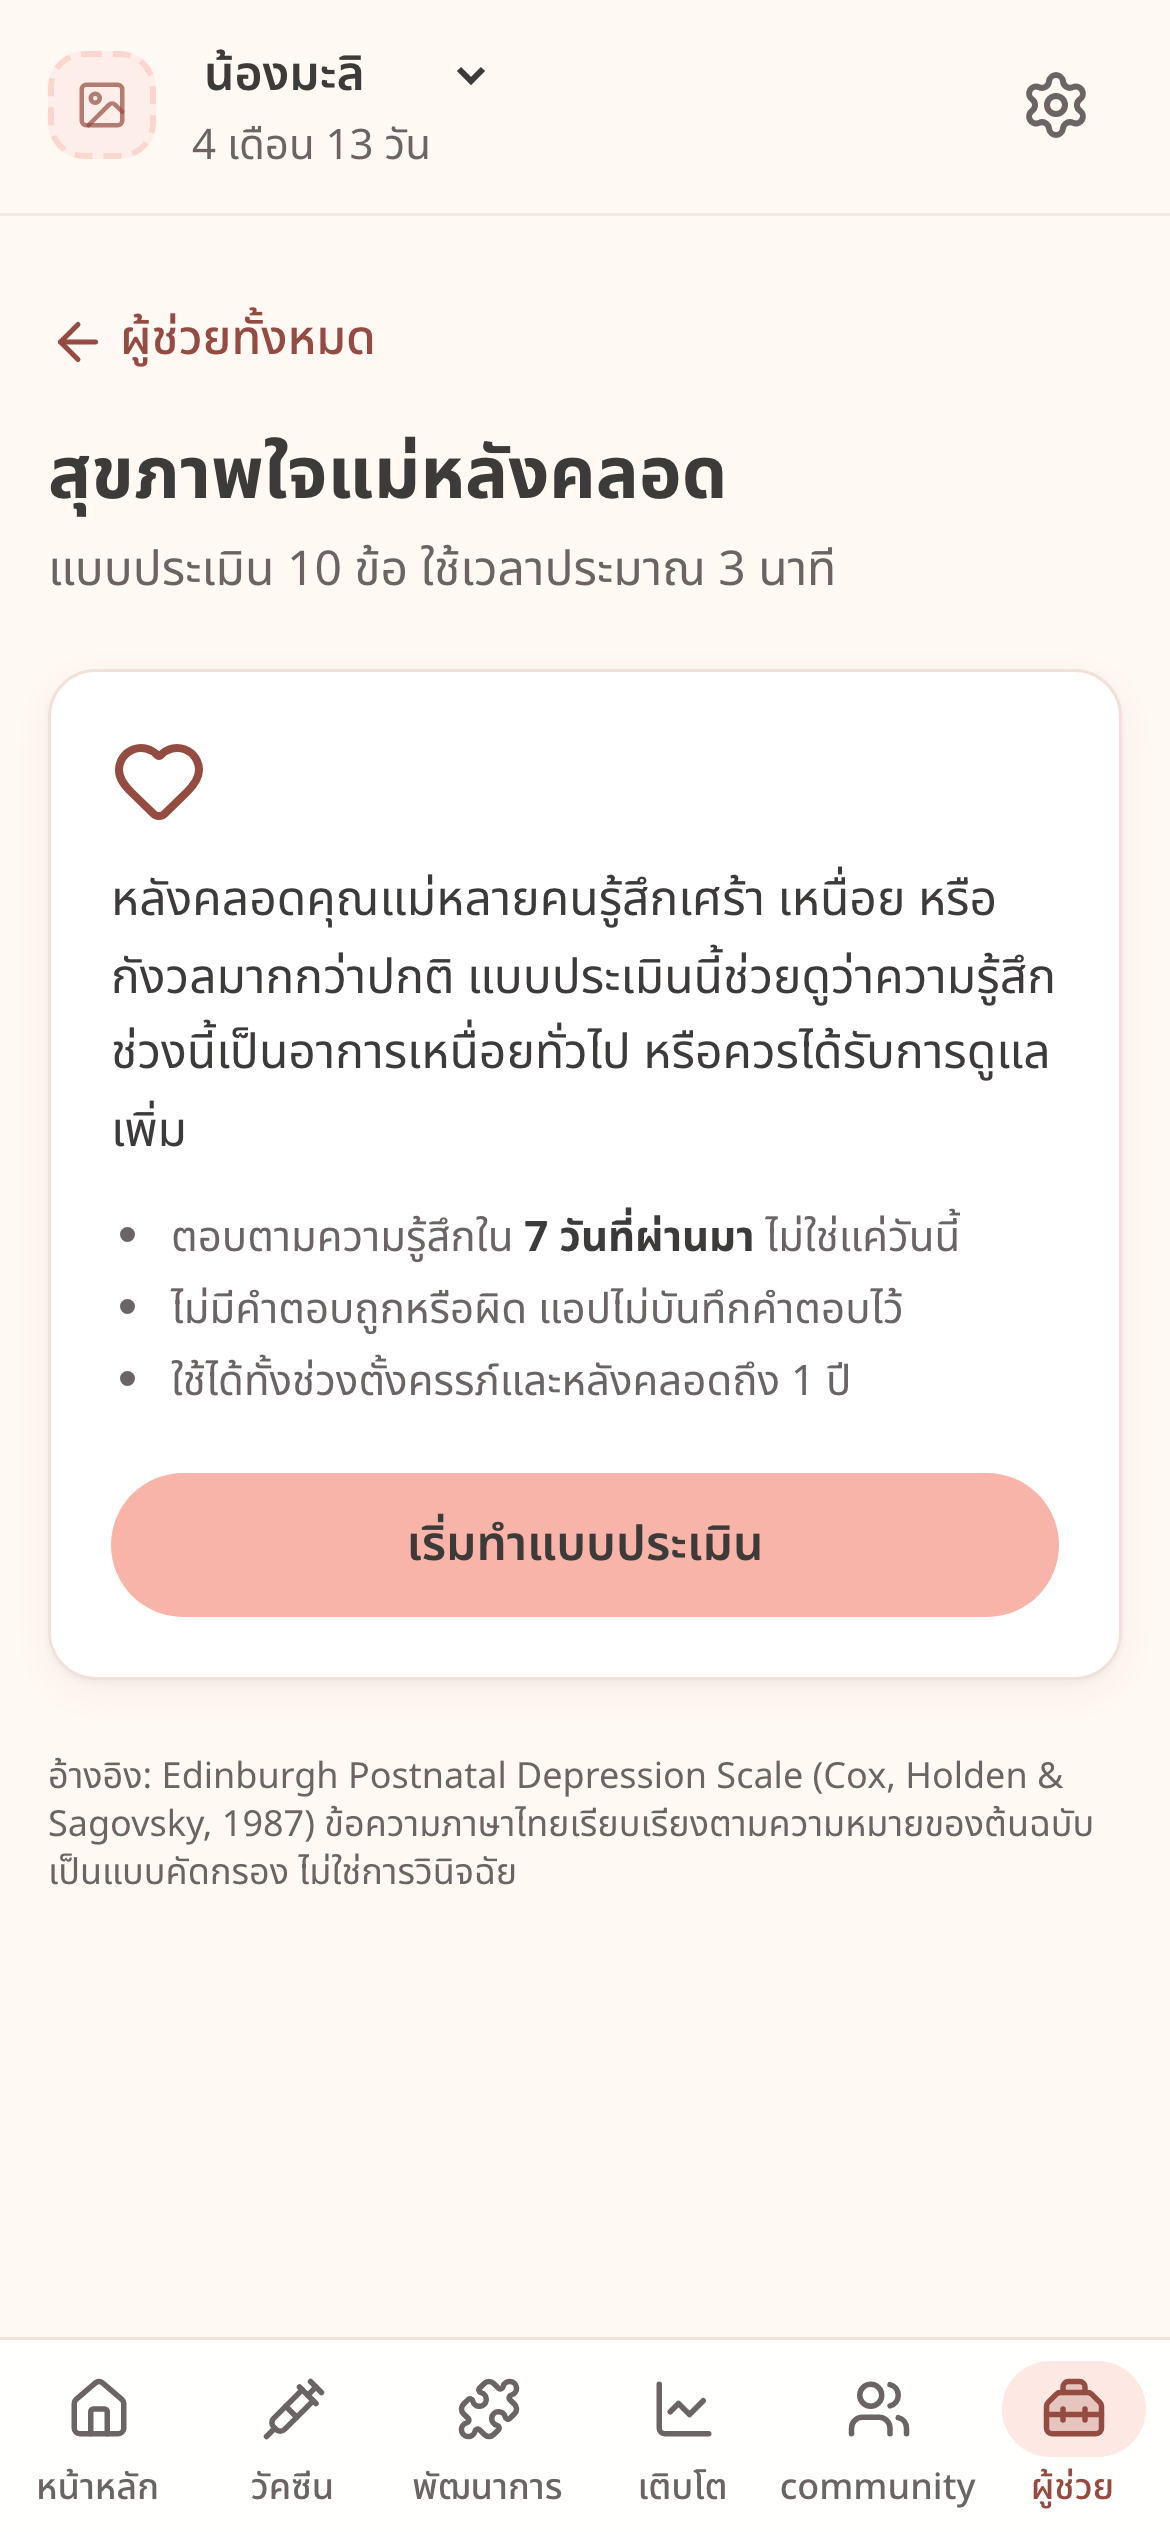
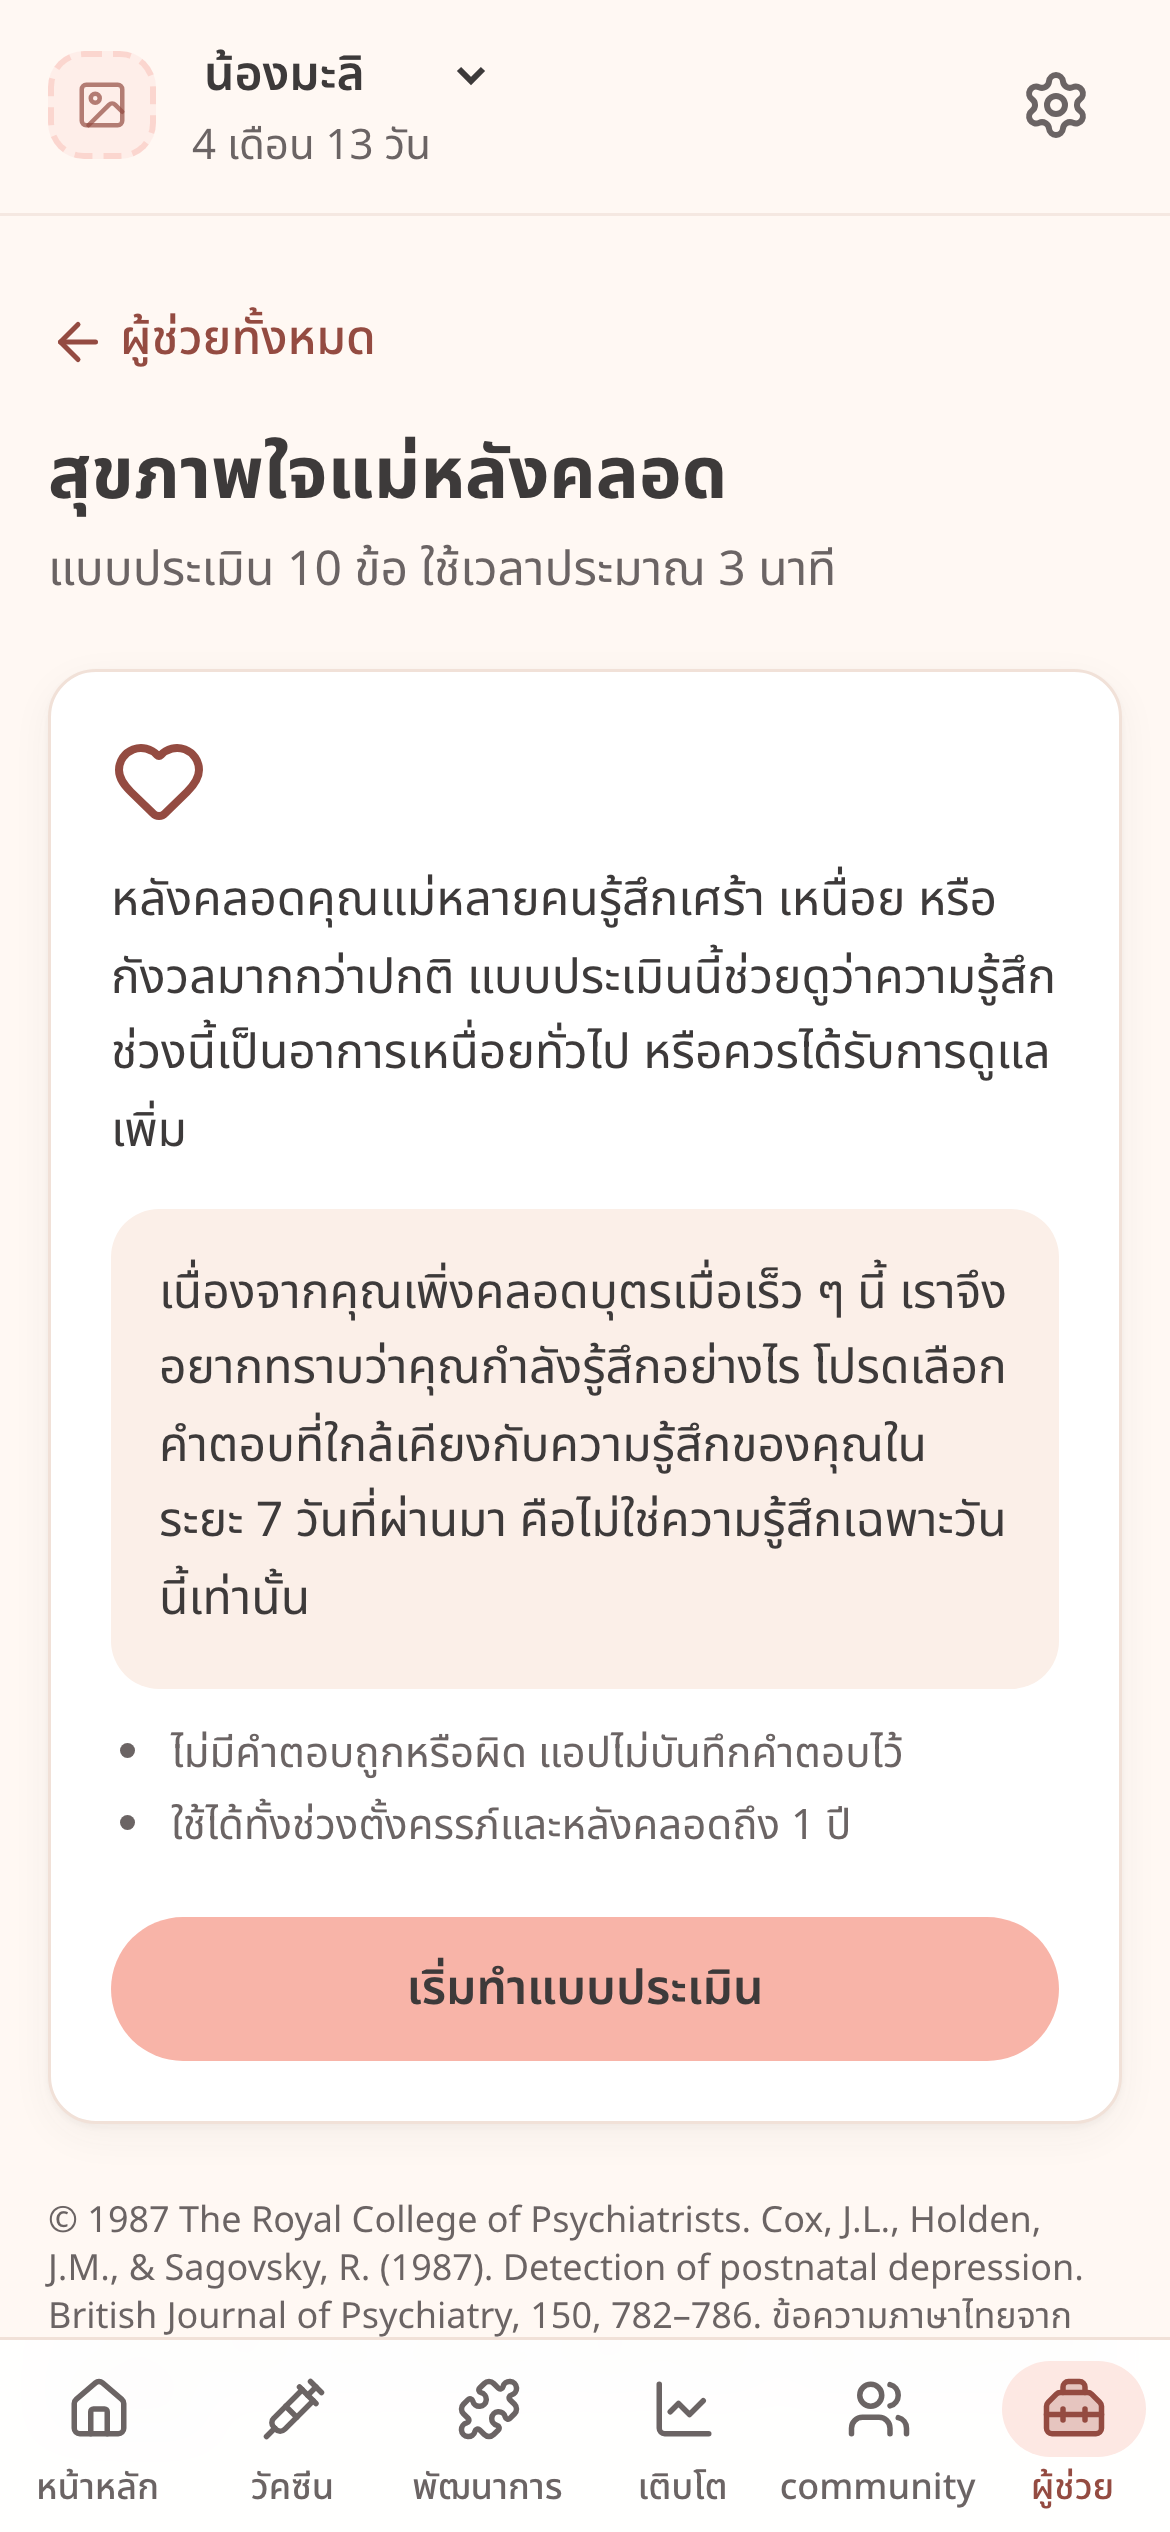
EPDS: use NSW Health linguistically validated Thai form text

diff --git a/src/lib/epds.ts b/src/lib/epds.ts
@@ -1,7 +1,9 @@
 /**
  * แบบคัดกรองภาวะซึมเศร้าหลังคลอด EPDS (Edinburgh Postnatal Depression Scale)
- * Cox, Holden & Sagovsky (1987) Br J Psychiatry 150:782–786 — ใช้ได้โดยอ้างอิงที่มา
- * ข้อความภาษาไทยเรียบเรียงตามความหมายของต้นฉบับ (ไม่ใช่ฉบับแปลที่ผ่านการทดสอบ)
+ * © 1987 The Royal College of Psychiatrists. Cox, Holden & Sagovsky (1987) Br J Psychiatry 150:782–786
+ * ข้อความภาษาไทยคัดตามแบบฟอร์มฉบับภาษาไทยของ NSW Health (SMR060.461) ซึ่งผ่านการแปลไปและแปลกลับ
+ * (linguistically validated) โดย Western Sydney Local Health District Translation Services
+ * https://www.mhcs.health.nsw.gov.au/publications/epds/thai
  *
  * 10 ข้อ ข้อละ 0–3 คะแนน รวม 0–30 ถามถึงความรู้สึกใน 7 วันที่ผ่านมา
  * ตัวเลือกเรียงตามลำดับในแบบสอบถามจริง — ข้อ 1, 2, 4 ตัวแรกได้ 0 ส่วนข้ออื่นตัวแรกได้ 3 (คิดคะแนนกลับ)
@@ -21,70 +23,69 @@ export interface EpdsQuestion {
 export const EPDS_QUESTIONS: EpdsQuestion[] = [
   {
     id: 1,
-    text: 'ฉันหัวเราะและมองเห็นเรื่องตลกขบขันได้',
-    options: ['ได้เหมือนเคย', 'ได้น้อยกว่าเดิมเล็กน้อย', 'ได้น้อยกว่าเดิมมาก', 'ไม่ได้เลย'],
+    text: 'ฉันสามารถหัวเราะและมองดูสิ่งต่าง ๆ ในแง่ที่ขบขัน',
+    options: ['เท่าที่ฉันทำมาเสมอ ๆ', 'ตอนนี้ไม่สามารถทำได้มากเหมือนอย่างที่เคยทำ', 'ที่แน่ ๆ คือน้อยลงกว่าที่เคยทำ', 'ไม่สามารถทำได้เลย'],
     reversed: false,
   },
   {
     id: 2,
-    text: 'ฉันตั้งตารอสิ่งต่าง ๆ ด้วยความเพลิดเพลิน',
-    options: ['เหมือนเคย', 'น้อยกว่าเดิมเล็กน้อย', 'น้อยกว่าเดิมมาก', 'แทบไม่มีเลย'],
+    text: 'ฉันมองไปข้างหน้าเพื่อหาความเพลิดเพลินใจกับสิ่งต่าง ๆ',
+    options: ['เท่า ๆ กับที่ฉันเคยทำ', 'น้อยลงกว่าที่เคยทำ', 'ที่แน่ ๆ คือน้อยลงกว่าที่เคยทำ', 'เรียกได้ว่าเกือบไม่มีเลย'],
     reversed: false,
   },
   {
     id: 3,
-    text: 'ฉันโทษตัวเองโดยไม่จำเป็นเมื่อมีอะไรผิดพลาด',
-    options: ['ใช่ เกือบตลอดเวลา', 'ใช่ บางครั้ง', 'ไม่บ่อยนัก', 'ไม่เคยเลย'],
+    text: 'ฉันโทษตัวเองเมื่อมีเหตุการณ์เลวร้ายเกิดขึ้น',
+    options: ['ใช่ เกือบตลอดเวลา', 'ใช่ เป็นบางครั้ง', 'ไม่บ่อยนัก', 'ไม่เคยเลย'],
     reversed: true,
   },
   {
     id: 4,
-    text: 'ฉันรู้สึกกังวลหรือเป็นห่วงโดยไม่มีเหตุผล',
-    options: ['ไม่เลย', 'แทบไม่เคย', 'ใช่ บางครั้ง', 'ใช่ บ่อยมาก'],
+    text: 'ฉันรู้สึกกระวนกระวายหรือกังวลโดยไม่มีเหตุผลสมควร',
+    options: ['ไม่ ไม่รู้สึกเช่นนั้นเลย', 'ไม่ค่อยจะรู้สึกเช่นนั้น', 'ใช่ เป็นบางครั้ง', 'ใช่ บ่อยมาก'],
     reversed: false,
   },
   {
     id: 5,
-    text: 'ฉันรู้สึกกลัวหรือตื่นตระหนกโดยไม่มีเหตุผล',
-    options: ['ใช่ ค่อนข้างบ่อย', 'ใช่ บางครั้ง', 'ไม่ค่อย', 'ไม่เลย'],
+    text: 'ฉันรู้สึกหวาดผวาหรือตกอกตกใจโดยไม่มีเหตุผลสมควร',
+    options: ['ใช่ บ่อยมากทีเดียว', 'ใช่ เป็นบางครั้ง', 'ไม่ ไม่บ่อยมาก', 'ไม่ ไม่เคยเป็นเช่นนั้นเลย'],
     reversed: true,
   },
   {
     id: 6,
-    text: 'เรื่องต่าง ๆ ถาโถมเข้ามาจนรับมือไม่ไหว',
-    options: [
-      'ใช่ ส่วนใหญ่รับมือไม่ได้เลย',
-      'ใช่ บางครั้งรับมือได้ไม่ดีเท่าที่เคย',
-      'ไม่ ส่วนใหญ่รับมือได้ดี',
-      'ไม่ รับมือได้ดีเหมือนเคย',
-    ],
+    text: 'มีเรื่องต่าง ๆ เกิดขึ้นทับถมฉันไปหมด',
+    options: ['ใช่ ส่วนมากฉันไม่สามารถรับมือกับเรื่องเหล่านี้ได้เลย', 'ใช่ บางครั้งฉันก็ไม่สามารถรับมือกับเรื่องเหล่านี้ได้เหมือนอย่างปกติ', 'ไม่ ส่วนมากฉันสามารถรับมือกับเรื่องต่าง ๆ ได้ดี', 'ไม่ ฉันสามารถรับมือกับเรื่องต่าง ๆ ได้เหมือนที่ฉันทำมาตลอด'],
     reversed: true,
   },
   {
     id: 7,
-    text: 'ฉันไม่มีความสุขจนนอนหลับยาก',
-    options: ['ใช่ เกือบตลอดเวลา', 'ใช่ บางครั้ง', 'ไม่บ่อยนัก', 'ไม่เลย'],
+    text: 'ฉันไม่มีความสุขเอามาก ๆ จนนอนไม่หลับ',
+    options: ['ใช่ ส่วนมากเป็นเช่นนี้', 'ใช่ บางครั้งเป็นเช่นนี้', 'เป็นเช่นนี้ไม่ค่อยบ่อยนัก', 'ไม่ ไม่เคยเป็นเช่นนี้เลย'],
     reversed: true,
   },
   {
     id: 8,
-    text: 'ฉันรู้สึกเศร้าหรือทุกข์ใจ',
-    options: ['ใช่ เกือบตลอดเวลา', 'ใช่ ค่อนข้างบ่อย', 'ไม่บ่อยนัก', 'ไม่เลย'],
+    text: 'ฉันรู้สึกเศร้าใจและไม่มีความสุข',
+    options: ['ใช่ เป็นส่วนมาก', 'ใช่ เป็นบางครั้ง', 'ไม่ ไม่ค่อยเป็นเช่นนี้บ่อยนัก', 'ไม่ ไม่เคยเป็นเช่นนี้เลย'],
     reversed: true,
   },
   {
     id: 9,
-    text: 'ฉันไม่มีความสุขจนร้องไห้',
-    options: ['ใช่ เกือบตลอดเวลา', 'ใช่ ค่อนข้างบ่อย', 'นาน ๆ ครั้ง', 'ไม่เคยเลย'],
+    text: 'ฉันไม่มีความสุขจนถึงกับต้องร้องไห้',
+    options: ['ใช่ ส่วนมากเป็นเช่นนี้', 'ใช่ เป็นเช่นนี้บ่อยทีเดียว', 'เป็นบางครั้งเท่านั้น', 'ไม่ ไม่เคยเป็นเช่นนี้เลย'],
     reversed: true,
   },
   {
     id: 10,
-    text: 'ฉันเคยมีความคิดอยากทำร้ายตัวเอง',
-    options: ['ใช่ ค่อนข้างบ่อย', 'บางครั้ง', 'แทบไม่เคย', 'ไม่เคยเลย'],
+    text: 'ความคิดที่จะทำร้ายตัวเองเคยเกิดขึ้นกับฉัน',
+    options: ['ใช่ เกิดขึ้นบ่อยทีเดียว', 'เป็นบางครั้ง', 'ไม่ค่อยจะเกิดขึ้น', 'ไม่เคยเกิดขึ้นเลย'],
     reversed: true,
   },
 ]
+
+/** คำชี้แจงตามแบบฟอร์ม (ปรับ "ทำเครื่องหมายหน้าคำตอบ" เป็น "เลือกคำตอบ" ให้เข้ากับการกดบนจอ) */
+export const EPDS_INSTRUCTION =
+  'เนื่องจากคุณเพิ่งคลอดบุตรเมื่อเร็ว ๆ นี้ เราจึงอยากทราบว่าคุณกำลังรู้สึกอย่างไร โปรดเลือกคำตอบที่ใกล้เคียงกับความรู้สึกของคุณในระยะ 7 วันที่ผ่านมา คือไม่ใช่ความรู้สึกเฉพาะวันนี้เท่านั้น'
 
 export const EPDS_MAX = 30
 export const SELF_HARM_QUESTION_ID = 10

diff --git a/src/pages/MomMindPage.tsx b/src/pages/MomMindPage.tsx
@@ -6,7 +6,7 @@ import { ArrowLeftIcon, ArrowCounterClockwiseIcon, CheckCircleIcon, HeartIcon, P
 import { useState } from 'react'
 import { BackToTools } from '../components/ToolSafety'
 import { Button, Card, PageHeader, ProgressBar } from '../components/ui'
-import { EPDS_MAX, EPDS_QUESTIONS, scoreEpds, type EpdsLevel } from '../lib/epds'
+import { EPDS_INSTRUCTION, EPDS_MAX, EPDS_QUESTIONS, scoreEpds, type EpdsLevel } from '../lib/epds'
 
 const LEVEL: Record<EpdsLevel, { title: string; text: string; box: string; icon: typeof CheckCircleIcon; iconClass: string }> = {
   low: {
@@ -54,8 +54,8 @@ export default function MomMindPage() {
             หลังคลอดคุณแม่หลายคนรู้สึกเศร้า เหนื่อย หรือกังวลมากกว่าปกติ แบบประเมินนี้ช่วยดูว่าความรู้สึกช่วงนี้เป็นอาการเหนื่อยทั่วไป
             หรือควรได้รับการดูแลเพิ่ม
           </p>
+          <p className="mt-3 rounded-2xl bg-surface-muted p-4 text-ink">{EPDS_INSTRUCTION}</p>
           <ul className="mt-3 list-disc space-y-1 pl-5 text-sm text-ink-muted">
-            <li>ตอบตามความรู้สึกใน <strong className="text-ink">7 วันที่ผ่านมา</strong> ไม่ใช่แค่วันนี้</li>
             <li>ไม่มีคำตอบถูกหรือผิด แอปไม่บันทึกคำตอบไว้</li>
             <li>ใช้ได้ทั้งช่วงตั้งครรภ์และหลังคลอดถึง 1 ปี</li>
           </ul>
@@ -81,7 +81,8 @@ export default function MomMindPage() {
       {done && <Result answers={answers} onRestart={restart} />}
 
       <p className="mt-6 text-xs text-ink-muted">
-        อ้างอิง: Edinburgh Postnatal Depression Scale (Cox, Holden & Sagovsky, 1987) ข้อความภาษาไทยเรียบเรียงตามความหมายของต้นฉบับ
+        © 1987 The Royal College of Psychiatrists. Cox, J.L., Holden, J.M., & Sagovsky, R. (1987). Detection of postnatal depression.
+        British Journal of Psychiatry, 150, 782–786. ข้อความภาษาไทยจากแบบฟอร์ม EPDS ฉบับภาษาไทยของ NSW Health ·
         เป็นแบบคัดกรอง ไม่ใช่การวินิจฉัย
       </p>
     </>

diff --git a/e2e/scenarios.spec.ts b/e2e/scenarios.spec.ts
@@ -102,7 +102,7 @@ test('แบบประเมินสุขภาพใจ: ตอบครบ
   await page.getByRole('button', { name: 'ทำแบบประเมินอีกครั้ง' }).click()
   await page.getByRole('button', { name: 'เริ่มทำแบบประเมิน' }).click()
   for (let i = 0; i < 9; i++) await page.locator('fieldset label').last().click()
-  await page.getByText('บางครั้ง', { exact: true }).click()
+  await page.getByText('เป็นบางครั้ง', { exact: true }).click()
   await expect(page.getByRole('alert')).toContainText('1323')
 })
 
